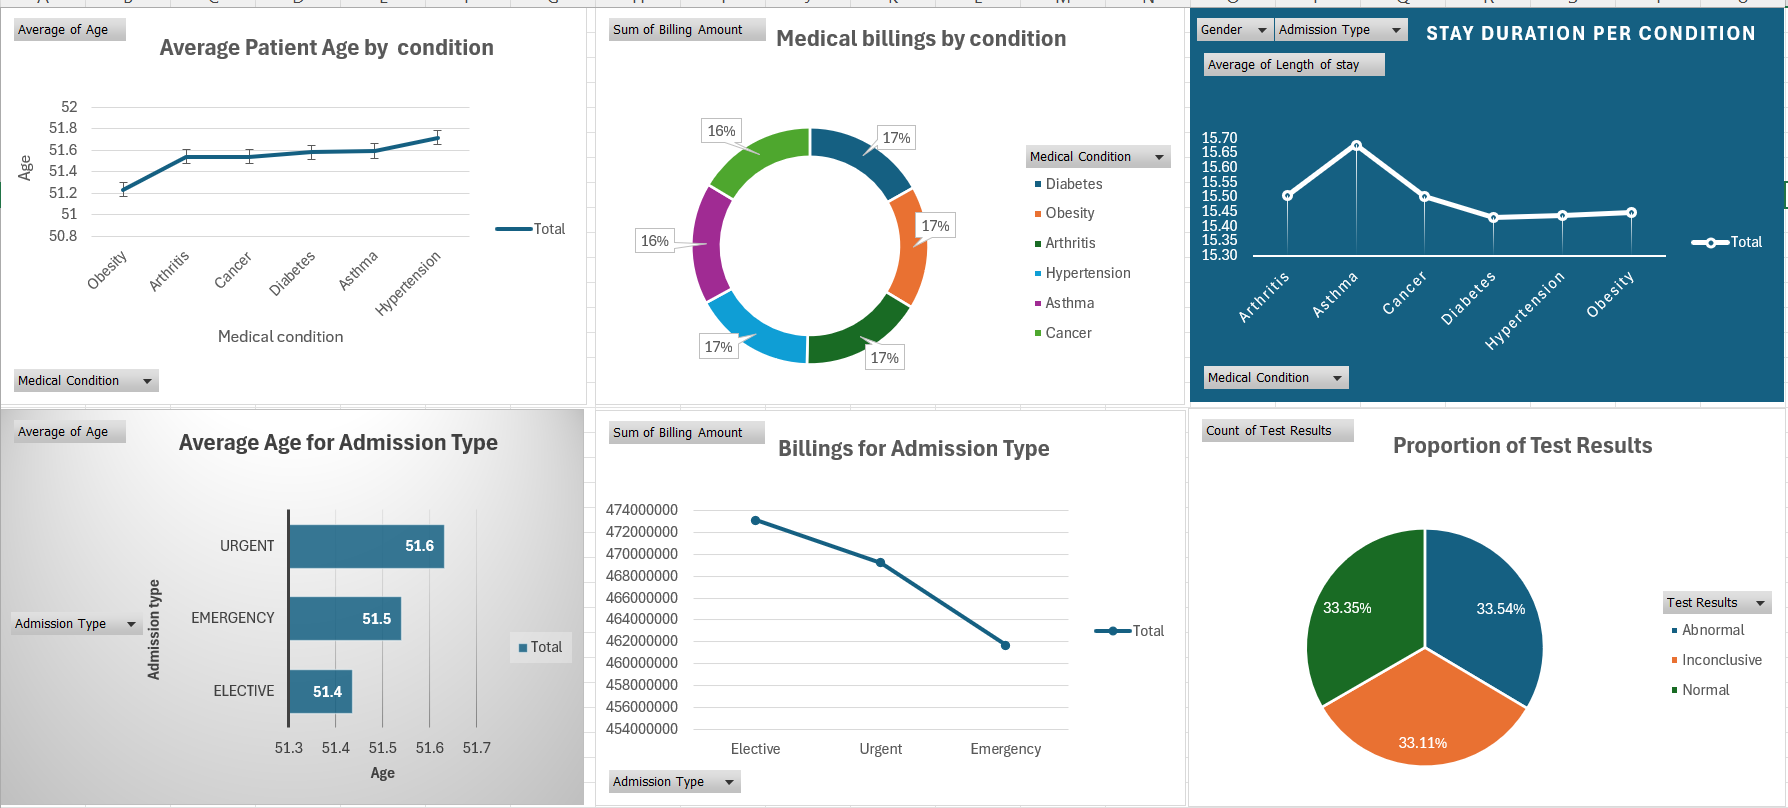
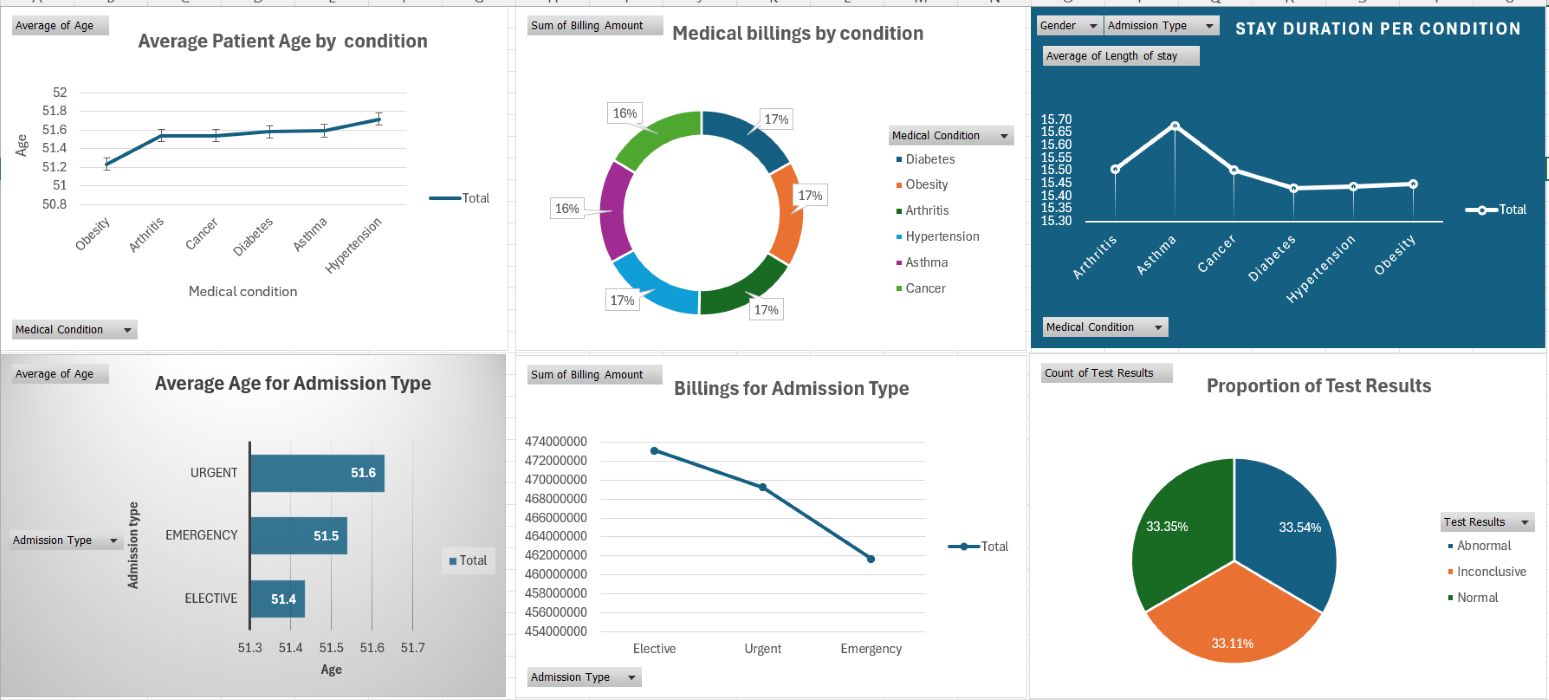
Add files via upload

diff --git a/index.html b/index.html
@@ -140,7 +140,7 @@
     .project-img {
       border-radius: 8px;
       margin: 10px 0;
-      max-width: 100%;
+      max-width: 90%;
       height: auto;
       transition: transform 0.2s, box-shadow 0.2s;
     }
@@ -299,12 +299,73 @@ function toggleDesc(projectId) {
 
 
 
-    <div class="project">
-      <h3>Project 3: Power BI Dashboard</h3>
-      <img src="images/project3.png" alt="Project 3 Screenshot" class="project-img">
-      <p>Created an interactive dashboard in Power BI to track yearly product trends and sales performance.</p>
-      <a href="#" class="button">View Project</a>
-    </div>
+  <div class="project" id="project-olympic">
+  <h3>Project: Olympic Medal Analytics — Key Insights</h3>
+
+  <!-- Screenshot(s) -->
+  <img src="project/olympic/olympic.jpg"
+       alt="Power BI Olympic dashboard showing medals by country, yearly trends, seasons, and athletes"
+       class="project-img">
+
+  <!-- Short description -->
+  <p>
+    Built an interactive Power BI report to explore medals by <strong>country</strong>, <strong>year</strong>,
+    <strong>season</strong>, and <strong>athlete</strong>. Highlights include a gold-medal share view, per-capita
+    medal efficiency, and country profiles with population &amp; GDP per capita context. SQL was used for robust
+    aggregations (years with &gt;10/&gt;50 medals) and to prepare a clean DirectQuery model.
+  </p>
+
+  <!-- Hidden long description -->
+  <div class="more-desc" style="display: none;">
+    <p><strong>What I built</strong></p>
+    <ul>
+      <li><em>Medals by Year</em> (line): trends over time with Medal slicer (Gold/Silver/Bronze) and Season filter.</li>
+      <li><em>Country × Medal</em> (stacked bars): composition of medal types by country (Gold, Silver, Bronze).</li>
+      <li><em>Season comparison</em>: 100% stacked bars for Summer vs Winter medal mix.</li>
+      <li><em>Gold share</em> (donut): top countries’ share of all Gold medals (Top-N + “Others”).</li>
+      <li><em>Per-capita standouts</em> (bar): medals per million people, with a minimum-medal threshold to avoid noise.</li>
+      <li><em>Context</em>: Population (de-duplicated per country) and a GDP-per-capita map for economic backdrop.</li>
+      <li><em>Athlete view</em>: top medal-winning athletes with cross-filtering to country and year.</li>
+    </ul>
+
+    <p><strong>Data &amp; modeling notes</strong></p>
+    <ul>
+      <li>DirectQuery to SQL Server; cleaned blanks/“NULL” countries; normalized fields for grouping.</li>
+      <li>DAX measures to avoid over-counting (e.g., population per country; medals per million; Gold share).</li>
+      <li>Top-N, dynamic titles, and synchronized slicers for a guided, interactive narrative.</li>
+    </ul>
+
+    <p><strong>SQL code (download/view)</strong></p>
+    <ul>
+      <li><a href="olympic_query/olympic_merged_data.sql" download>olympic_merged_data.sql</a></li>
+      <li><a href="olympic_query/NumYearsMoreThan10Medals(olympic).sql" download>NumYearsMoreThan10Medals(olympic).sql</a></li>
+      <li><a href="olympic_query/Top%2015%20Per-Capita%20Medal%20Standouts.sql" download>Top 15 Per-Capita Medal Standouts.sql</a></li>
+      <li><a href="olympic_query/YearsMoreThan50Medals(OLYMPIC).sql" download>YearsMoreThan50Medals(OLYMPIC).sql</a></li>
+    </ul>
+  </div>
+
+  <!-- Buttons -->
+  <button onclick="toggleDesc('project-olympic')" class="button">View More</button>
+  <a href="project/olympic/olympic.jpg" class="button" target="_blank" rel="noopener">View Screenshot</a>
+</div>
+
+<!-- If you don't already have this on the page, include it once -->
+<script>
+function toggleDesc(projectId) {
+  const project = document.getElementById(projectId);
+  const desc = project.querySelector(".more-desc");
+  const btn = project.querySelector("button");
+
+  if (desc.style.display === "none") {
+    desc.style.display = "block";
+    btn.textContent = "View Less";
+  } else {
+    desc.style.display = "none";
+    btn.textContent = "View More";
+  }
+}
+</script>
+
 
     <div class="project">
       <h3>Project 4: Expense Tracker Application</h3>
